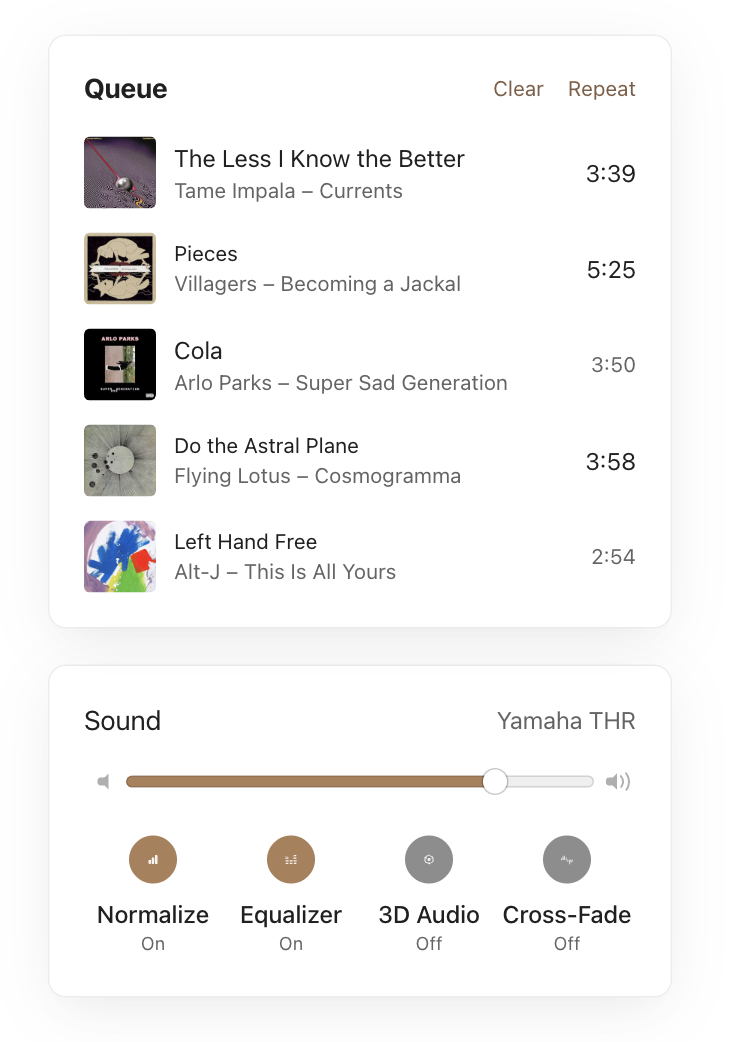
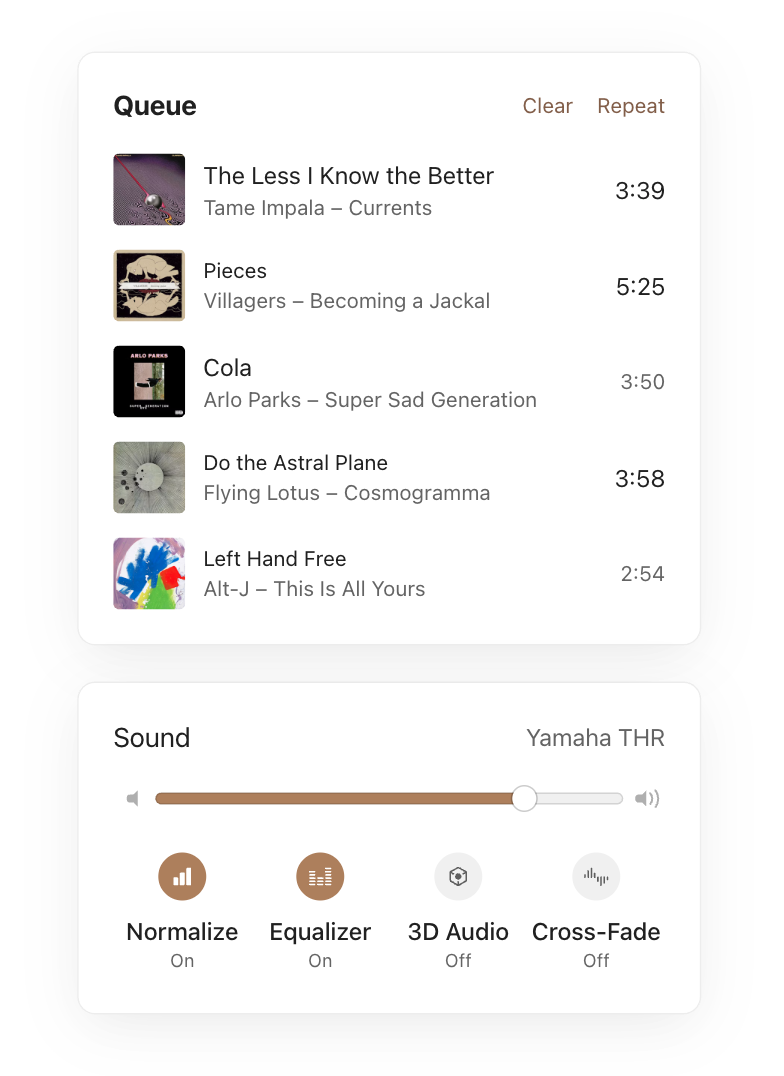
fix button style

diff --git a/src/styled/components/button.ts b/src/styled/components/button.ts
@@ -1,40 +1,39 @@
 import { cva, type VariantProps } from '~/lib/utils'
 import styles from './button.module.css'
 
-export const buttonVariants = cva(
-  ['rt-reset', styles['rt-BaseButton'], styles['rt-Button']],
-  {
-    defaultVariants: {
-      size: '2',
-      variant: 'solid',
+export const buttonVariants = cva(['rt-reset', styles['rt-BaseButton']], {
+  defaultVariants: {
+    size: '2',
+    variant: 'solid',
+    type: 'button',
+  },
+  variants: {
+    type: {
+      'icon-button': styles['rt-IconButton'],
+      button: styles['rt-Button'],
     },
-    variants: {
-      type: {
-        icon: styles['rt-IconButton'],
-      },
-      highContrast: {
-        true: styles['rt-high-contrast'],
-      },
-      loading: {
-        true: styles['rt-loading'],
-      },
-      variant: {
-        classic: styles['rt-variant-classic'],
-        solid: styles['rt-variant-solid'],
-        soft: styles['rt-variant-soft'],
-        ghost: styles['rt-variant-ghost'],
-        outline: styles['rt-variant-outline'],
-        surface: styles['rt-variant-surface'],
-      },
-      size: {
-        '1': styles['rt-r-size-1'],
-        '2': styles['rt-r-size-2'],
-        '3': styles['rt-r-size-3'],
-        '4': styles['rt-r-size-4'],
-      },
+    highContrast: {
+      true: styles['rt-high-contrast'],
+    },
+    loading: {
+      true: styles['rt-loading'],
+    },
+    variant: {
+      classic: styles['rt-variant-classic'],
+      solid: styles['rt-variant-solid'],
+      soft: styles['rt-variant-soft'],
+      ghost: styles['rt-variant-ghost'],
+      outline: styles['rt-variant-outline'],
+      surface: styles['rt-variant-surface'],
+    },
+    size: {
+      '1': styles['rt-r-size-1'],
+      '2': styles['rt-r-size-2'],
+      '3': styles['rt-r-size-3'],
+      '4': styles['rt-r-size-4'],
     },
   },
-)
+})
 
 export type ButtonVariants = VariantProps<typeof buttonVariants>
 

diff --git a/src/components/demo.tsx b/src/components/demo.tsx
@@ -293,7 +293,7 @@ const Card2 = () => {
             data-accent-color
             data-radius="full"
             tabindex="-1"
-            styled={{ type: 'icon' }}
+            styled={{ type: 'icon-button' }}
           >
             <svg
               xmlns="http://www.w3.org/2000/svg"
@@ -322,7 +322,7 @@ const Card2 = () => {
             data-accent-color
             data-radius="full"
             tabindex="-1"
-            styled={{ type: 'icon' }}
+            styled={{ type: 'icon-button' }}
           >
             <svg
               xmlns="http://www.w3.org/2000/svg"
@@ -351,7 +351,7 @@ const Card2 = () => {
             data-accent-color="gray"
             data-radius="full"
             tabindex="-1"
-            styled={{ type: 'icon' }}
+            styled={{ type: 'icon-button', variant:'soft' }}
           >
             <svg
               xmlns="http://www.w3.org/2000/svg"
@@ -380,7 +380,7 @@ const Card2 = () => {
             data-accent-color="gray"
             data-radius="full"
             tabindex="-1"
-            styled={{ type: 'icon' }}
+            styled={{ type: 'icon-button', variant:'soft' }}
           >
             <svg
               xmlns="http://www.w3.org/2000/svg"
